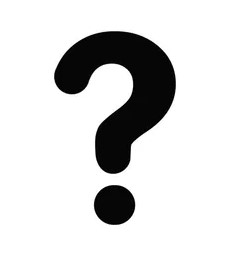
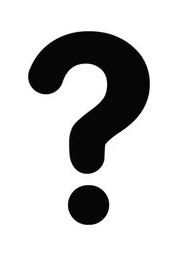
Add question mark image when no poster path is provided to a movie/tv show during an API call, also add question mark image in about_title

diff --git a/main/about_title/about_title_movie.py b/main/about_title/about_title_movie.py
@@ -63,30 +63,37 @@ class AboutTitleMoviePage(QMainWindow, AboutTitleMovieDesignUI):
         self.add_review_button.setCursor(QCursor(Qt.CursorShape.PointingHandCursor))
 
     def load_contents(self):
-        if self.media_type == "movie":
-            movie_url = f"https://api.themoviedb.org/3/movie/{self.media_id}"
-            movie_response = requests.get(movie_url, headers=self.api_headers).json()
+        movie_url = f"https://api.themoviedb.org/3/movie/{self.media_id}"
+        movie_response = requests.get(movie_url, headers=self.api_headers).json()
 
-            print(movie_response)
+        print(movie_response)
 
-            # To be used in the class
-            self.media_title = movie_response['title']
-            movie_overview = movie_response['overview']
-            movie_vote_average = movie_response['vote_average']
-            movie_release_year = (movie_response['release_date'].split('-'))[0]
+        # To be used in the class
+        self.media_title = movie_response['title']
+        movie_overview = movie_response['overview']
+        movie_vote_average = movie_response['vote_average']
+        movie_release_year = (movie_response['release_date'].split('-'))[0]
+
+        movie_genres = self.get_genres(movie_response['genres'])
+
+        print(movie_overview)
+        print(movie_vote_average)
+        print(movie_release_year)
+
+        self.title_label.setText(self.media_title)
+        self.year_label.setText(str(movie_release_year))
+        self.general_stars_label.setText(str(movie_vote_average))
+        self.synopsis_label.setText(movie_overview)
+        self.director_label.setText("Directed by: " + self.get_directors(movie_url))
+        self.genres_label.setText("Genres: " + movie_genres)
+
+        if not movie['poster_path']:
+            question_mark_image = QPixmap("../images/question_mark.jpg")
+            #
+            self.poster_label.setPixmap(question_mark_image)
+            self.poster_label.setScaledContents(True)
+        else:
             movie_img_url = 'https://image.tmdb.org/t/p/w500/' + movie_response['poster_path']
-            movie_genres = self.get_genres(movie_response['genres'])
-
-            print(movie_overview)
-            print(movie_vote_average)
-            print(movie_release_year)
-
-            self.title_label.setText(self.media_title)
-            self.year_label.setText(str(movie_release_year))
-            self.general_stars_label.setText(str(movie_vote_average))
-            self.synopsis_label.setText(movie_overview)
-            self.director_label.setText("Directed by: " + self.get_directors(movie_url))
-            self.genres_label.setText("Genres: " + movie_genres)
 
             movie_image = QImage()
             movie_image.loadFromData(requests.get(movie_img_url).content)
@@ -94,34 +101,6 @@ class AboutTitleMoviePage(QMainWindow, AboutTitleMovieDesignUI):
             self.poster_label.setPixmap(QPixmap(movie_image))
             self.poster_label.setScaledContents(True)
 
-        elif self.media_type == "tv":
-            tv_show_url = f"https://api.themoviedb.org/3/tv/{self.media_id}"
-            tv_show_response = requests.get(tv_show_url, headers=self.api_headers).json()
-
-            # To be used in the class
-            self.media_title = tv_show_response['name']
-            tv_show_overview = tv_show_response['overview']
-            tv_show_vote_average = tv_show_response['vote_average']
-            tv_show_release_year = (tv_show_response['first_air_date'].split('-'))[0]
-            tv_show_img_url = 'https://image.tmdb.org/t/p/original' + tv_show_response['poster_path']
-            tv_show_genres = self.get_genres(tv_show_response['genres'])
-
-            # print(movie_overview)
-            # print(movie_vote_average)
-            # print(movie_release_year)
-            #
-            self.title_label.setText(self.media_title)
-            self.year_label.setText(str(tv_show_release_year))
-            self.general_stars_label.setText(str(tv_show_vote_average))
-            self.synopsis_label.setText(tv_show_overview)
-            self.director_label.setText("Directed by: " + self.get_directors(tv_show_url))
-            self.genres_label.setText("Genres: " + tv_show_genres)
-
-            tv_show_image = QImage()
-            tv_show_image.loadFromData(requests.get(tv_show_img_url).content)
-
-            self.poster_label.setPixmap(QPixmap(tv_show_image))
-            self.poster_label.setScaledContents(True)
 
     def set_liked_button_state(self):
         connection = sqlite3.connect('database\\accounts.db')

diff --git a/main/search_results/search_results_page.py b/main/search_results/search_results_page.py
@@ -1,3 +1,5 @@
+from PyQt6.QtCore import QFileInfo
+
 from main.search_results.search_results_design import Ui_MainWindow as SearchResultsPageUI
 from main.search_results.media_result import MediaResult
 
@@ -35,14 +37,26 @@ class SearchResultsPage(QMainWindow, SearchResultsPageUI):
             self.media_result_frame = MediaResult(self.results_scroll_area_contents, movie['id'], "movie",
                                                   self.account_id)
 
-            media_img_url = f'https://image.tmdb.org/t/p/w92/{movie['poster_path']}'
-
-            media_image = QImage()
-            media_image.loadFromData(requests.get(media_img_url, headers=self.api_headers).content)
-
-            self.media_result_frame.media_poster.setPixmap(QPixmap(media_image))
             self.media_result_frame.media_title.setText(movie['title'])
-            self.media_result_frame.media_release_year.setText((movie['release_date'].split('-'))[0])
+
+            if not movie['poster_path']:
+                # Crab and Squid Save the Ocean
+
+                question_mark_image = QPixmap("../images/question_mark.jpg")
+                self.media_result_frame.media_poster.setPixmap(question_mark_image)
+
+            else:
+                media_img_url = f'https://image.tmdb.org/t/p/w92/{movie['poster_path']}'
+
+                media_image = QImage()
+                media_image.loadFromData(requests.get(media_img_url, headers=self.api_headers).content)
+
+                self.media_result_frame.media_poster.setPixmap(QPixmap(media_image))
+
+            if movie['release_date'] == '':
+                self.media_result_frame.media_release_year.setText("Unknown")
+            else:
+                self.media_result_frame.media_release_year.setText((movie['release_date'].split('-'))[0])
 
             self.media_result_frame.media_type.setText("Movie")
             self.media_result_frame.media_short_info.setText("???")
@@ -65,12 +79,13 @@ class SearchResultsPage(QMainWindow, SearchResultsPageUI):
             self.media_result_frame.media_title.setText(tv_show['name'])
 
             if not tv_show['poster_path']:
-                print("No poster")
                 # Crab and Squid Save the Ocean
 
-                # question_mark_image = QPixmap(u"question_mark.jpg")
+                # print(QPixmap("../../images/question_mark.jpg"))
+
+                question_mark_image = QPixmap("../images/question_mark.jpg")
                 #
-                # self.media_result_frame.media_poster.setPixmap(question_mark_image)
+                self.media_result_frame.media_poster.setPixmap(question_mark_image)
                 # self.media_result_frame.media_title.setText(tv_show['name'])
             else:
                 media_img_url = f'https://image.tmdb.org/t/p/w92/{tv_show['poster_path']}'

diff --git a/main/about_title/about_title_tv_show.py b/main/about_title/about_title_tv_show.py
@@ -84,7 +84,6 @@ class AboutTitleTvShowPage(QMainWindow, AboutTitleTvShowDesignUI):
         tv_show_overview = tv_show_response['overview']
         tv_show_vote_average = tv_show_response['vote_average']
         tv_show_release_year = (tv_show_response['first_air_date'].split('-'))[0]
-        tv_show_img_url = 'https://image.tmdb.org/t/p/w500' + tv_show_response['poster_path']
         tv_show_genres = self.get_genres(tv_show_response['genres'])
 
         self.seasons = tv_show_response['seasons']
@@ -104,11 +103,20 @@ class AboutTitleTvShowPage(QMainWindow, AboutTitleTvShowDesignUI):
 
         self.get_directors()
 
-        tv_show_image = QImage()
-        tv_show_image.loadFromData(requests.get(tv_show_img_url).content)
+        if not tv_show_response['poster_path']:
 
-        self.poster_label.setPixmap(QPixmap(tv_show_image))
-        self.poster_label.setScaledContents(True)
+            question_mark_image = QPixmap("../images/question_mark.jpg")
+            #
+            self.poster_label.setPixmap(question_mark_image)
+            self.poster_label.setScaledContents(True)
+        else:
+            tv_show_img_url = 'https://image.tmdb.org/t/p/w500' + tv_show_response['poster_path']
+
+            tv_show_image = QImage()
+            tv_show_image.loadFromData(requests.get(tv_show_img_url).content)
+
+            self.poster_label.setPixmap(QPixmap(tv_show_image))
+            self.poster_label.setScaledContents(True)
 
     def add_series_dictionary(self, number_of_episodes, vote_average, overview, id):
         # Shallow copies (meaning nested entries are not read) the first season of the show
